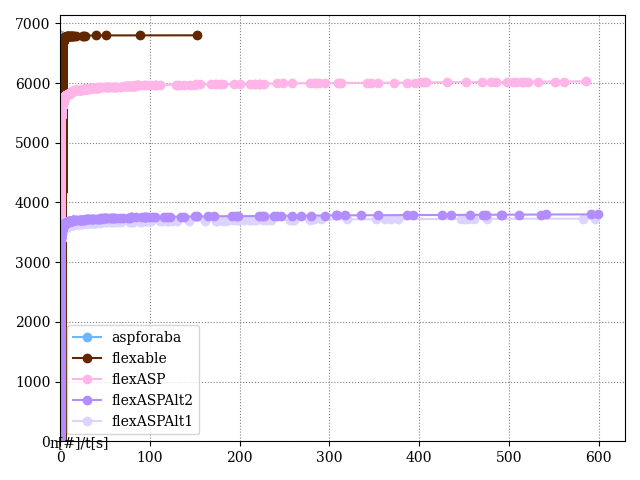
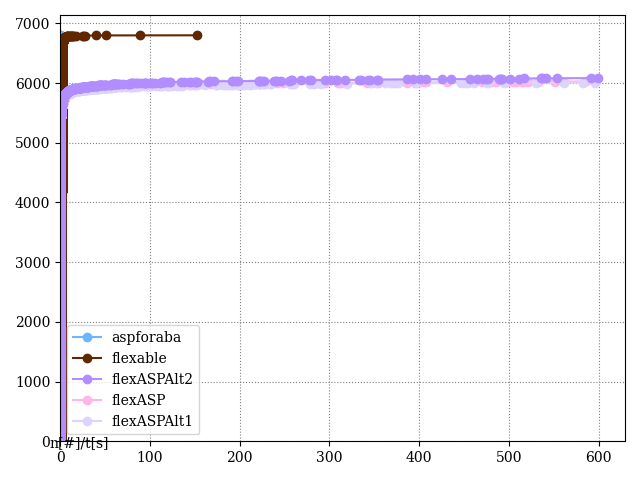
update readme

Changed region(s): [[0.0938, 0.1562, 0.9375, 0.5], [0.25, 0.7812, 0.3125, 0.8438], [0.125, 0.7812, 0.1562, 0.8438]]

diff --git a/README.md b/README.md
@@ -81,12 +81,12 @@ ob1Possible(t) :- possibleMove(t, "OB1", _), not pf1Possible(t), not pb2Possible
 
 |              |   aspforaba |   flexable |   flexASP |   flexASPAlt1 |   flexASPAlt2 |
 |:-------------|------------:|-----------:|----------:|--------------:|--------------:|
-| timeouts     |        0.00 |       0.00 |    773.00 |        524.00 |        521.00 |
-| time_tot [h] |        0.03 |       2.87 |    135.70 |         91.46 |         91.52 |
-| time_95 [h]  |        0.02 |       2.48 |     79.04 |         55.96 |         55.35 |
-| min [s]      |        0.00 |       0.98 |      0.01 |          0.01 |          0.02 |
-| median [s]   |        0.01 |       1.33 |      0.04 |          0.06 |          0.06 |
-| mean [s]     |        0.01 |       1.52 |      4.10 |          3.99 |          4.44 |
+| timeouts     |        0    |       0    |    773    |        791    |        717    |
+| time_tot [h] |        0.03 |       2.87 |    135.7  |        137.87 |        127.61 |
+| time_95 [h]  |        0.02 |       2.48 |     79.04 |         81.2  |         70.94 |
+| min [s]      |        0    |       0.98 |      0.01 |          0.01 |          0.02 |
+| median [s]   |        0.01 |       1.33 |      0.04 |          0.05 |          0.06 |
+| mean [s]     |        0.01 |       1.52 |      4.1  |          3.62 |          4.8  |
 | max [s]      |        0.07 |     152.78 |    585.44 |        595.95 |        599.47 |
 
 ![Cactus plot](./analysis/cactus_plot.png)
